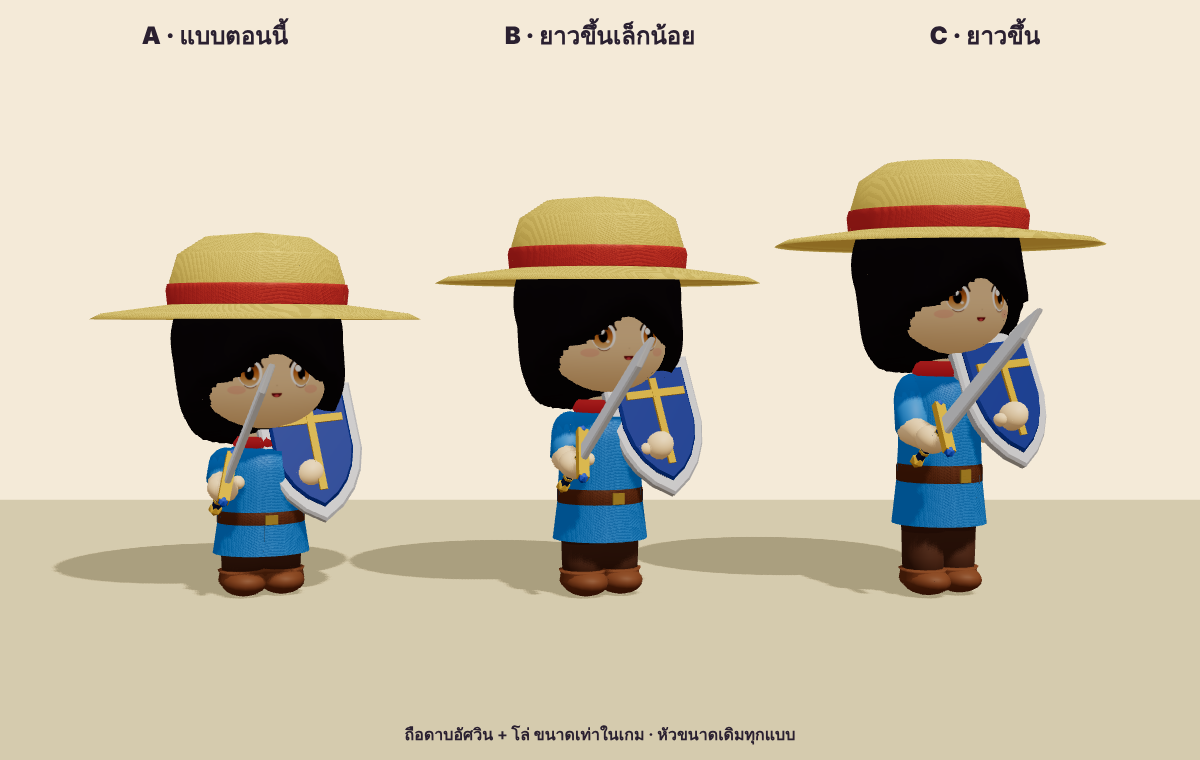
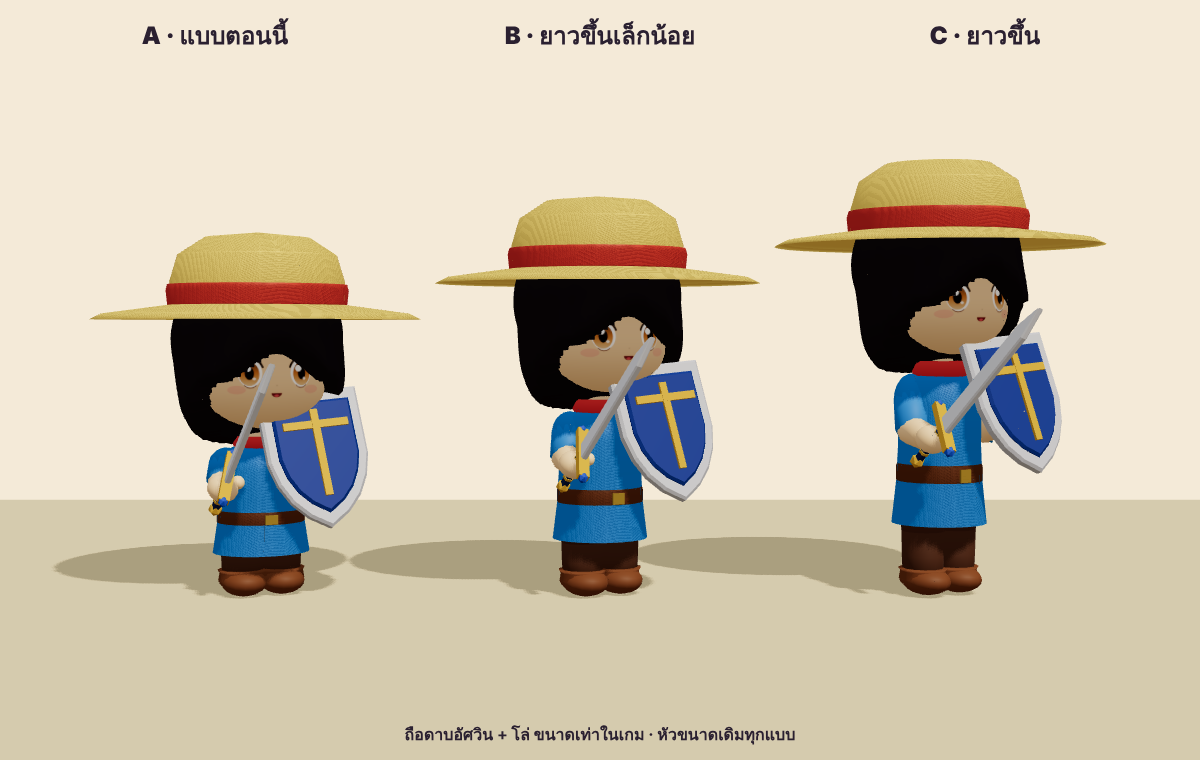
release(newgame): v4.18 shield on the forearm + hand
Claude-Session: https://claude.ai/code/session_01GPWeNez232vT9ersFNk7wt

diff --git a/newgame/src/data.js b/newgame/src/data.js
@@ -1,6 +1,6 @@
 /* New Game — all tunable numbers in one place (docs/SPEC.md). "เสนอ" values: change after play-testing. */
 
-export const APP_VER = '4.17';
+export const APP_VER = '4.18';
 export const LOCK_ON = 6, LOCK_OFF = 8;   // v1.4.2 lock-on: face the nearest angry monster within 6 m · let go beyond 8 m
 export const REACH_SWORD = 2.2, REACH_TOOL = 1.9;   // how close you must be to slash / chop — farther away the character walks over first
 export const CAM_FOLLOW = .45, CAM_DRAG = .0055;   // camera behind the character: max auto-turn (rad/s, ~25°/s) · drag sensitivity (rad per px)                        // bump every release, then run tools/make-version.py (the in-game update bar compares it with version.json)
@@ -608,7 +608,7 @@ export const PLOT_MAX = 400, FARM_GIFT = { carrot: 4, cabbage: 2 }, WILD_SEED = 
 /* ================= v1.2 open world: monster camps (treasure chest when cleared) · wild animals · blueprints ================= */
 export const HORSE = { sp: 6.8, gallop: 11.5, near: 2.4, seat: .95 };   // v3.2 riding speeds · how close to mount · rider height
 export const LAVAD = { sp: 1.8, reach: 3.6, leash: 40, slam: { r: 3, d: 3, wind: 1.2 }, balls: { n: 3, r: 1.8, wind: 1.5 }, erupt: { n: 6, r: 1.6, R: 8, wind: 1.3 }, cd: [2800, 2000] };   // v4.15 🌋 walk · reach · leash · fist slam (radius · in front · warning) · fireballs where you stand (count · radius · warning) · phase-2 eruptions (count · radius · spread · warning) · ms between · every hit burns 🔥
-export const SHIELD_ARM = { pos: [.03, -.03, .05], rot: [Math.PI / 2, 0, -.7], s: 1.35, pose: [-.45, .3, -1.45, -.5], guard: [-1.05, .15, -1.3, -.55] };   // v4.14 🛡 on the forearm (armL2): position · rotation · size · the arm pose [upper arm x, z, elbow x, y] · raised while guarding
+export const SHIELD_ARM = { pos: [0, -.1, .03], rot: [Math.PI / 2, 0, -.7], s: 1.35, pose: [-.45, .3, -1.45, -.5], guard: [-1.05, .15, -1.3, -.55] };   // v4.14 🛡 on the forearm (armL2): position · rotation · size · the arm pose [upper arm x, z, elbow x, y] · raised while guarding
 export const BGIANT = { sp: 2, reach: 3.6, leash: 40, sweep: { r: 3.2, d: 2.6, wind: 1.2 }, thrust: { n: 4, r: 1.4, step: 2.4, wind: 1.3 }, summon: { n: 2, max: 3 }, weak: 1.5, cd: [2700, 1900] };   // v4.13 💀 walk · reach · leash · sword sweep (radius · in front · warning) · thrust line (circles · radius · spacing · warning) · phase-2 skeletons (each time · most at once) · hit while it winds up ×1.5 · ms between
 export const DTREE = { reach: 18, leash: 30, slap: { r: 3, side: 2.6, wind: 1.1 }, roots: { n: 3, r: 1.6, gap: .45, wind: 1.0 }, spores: { r: 5.5, wind: 1.5 }, cd: [2600, 1900] };   // v4.12 🌳 attacks reach · you ran off · branch slap (radius · beside it) · roots under your feet (count · radius · s between · warning) · phase-2 poison spores · ms between
 export const GIANT = { sp: 2.2, reach: 3.4, leash: 40, slam: { r: 2.8, d: 3.2, wind: 1.2 }, breath: { n: 3, r: 1.7, step: 2.2, wind: 1.3 }, ring: { r: 6.5, wind: 1.5 }, cd: [2700, 1900] };   // v4.11 ❄ walk speed · reach · leash from home · slam (radius · in front · warning s) · breath (circles in a line) · phase-2 spike ring · ms between attacks

diff --git a/newgame/tools/art/proportions.html b/newgame/tools/art/proportions.html
@@ -23,7 +23,7 @@ V.forEach(([t, P], i) => { const root = new THREE.Group(), g = new THREE.Group()
   stretch(g, P);
   const hand = g.getObjectByName('handR'), arm2 = g.getObjectByName('armL2');
   if (hand) { const s = new THREE.Group(); WEAPON_MESH.knightSword(s); s.scale.setScalar(1.25 * VBACK.held / VSCALE * 1.45); s.rotation.set(2.2, -Math.PI / 2, 0); s.position.set(0, -.02, .02); hand.add(s) }
-  if (arm2) { const sh = new THREE.Group(); SHIELD_MESH.knightShield(sh); sh.scale.setScalar(1.35 * VBACK.held); sh.rotation.set(Math.PI / 2, 0, -.7); sh.position.set(.03, -.03, .05); arm2.add(sh) }
+  if (arm2) { const sh = new THREE.Group(); SHIELD_MESH.knightShield(sh); sh.scale.setScalar(1.35 * VBACK.held); sh.rotation.set(Math.PI / 2, 0, -.7); sh.position.set(.0, -.1, .03); arm2.add(sh) }
   root.traverse(o => { if (o.isMesh) o.castShadow = true }); root.position.x = (i - 1) * 1.9; root.rotation.y = .45; S.add(root) });
 const cam = new THREE.PerspectiveCamera(26, W / H, .1, 50); cam.position.set(0, 1.5, 9.2); cam.lookAt(0, 1.2, 0); R.render(S, cam);
 const cv = document.createElement('canvas'); cv.width = W; cv.height = H; const x = cv.getContext('2d'); x.drawImage(R.domElement, 0, 0); x.font = '900 24px system-ui'; x.fillStyle = '#2a2030'; x.textAlign = 'center';

diff --git a/newgame/docs/WORKLOG.md b/newgame/docs/WORKLOG.md
@@ -36,6 +36,13 @@
 - ✅ กระท่อมหลังแรก = `cabin` วางเอง (`bCost` ราคา D.BUILD.house · 30 วิ) · `S.home` + `setHome` (HOUSE ตามกระท่อม) · `homeMigrate` เซฟเก่าได้กระท่อม · 🚚 ย้าย (`enterBuild(k, id)` ฟรี) · ขุด/สร้างได้เฉพาะ band 2 · เทสต์ `bald.js`
 - ✅ บท 1–2 ไปเมืองท่า (ทำแล้ว · play.js ผ่านครบ) · เดิม: บท 1–2 ไปเมืองท่า (สไลม์ในเมือง · ดาบ · ป่าก็อบลิน+กรง · ซุ้มฟาง Sberh · สมุนไพร) · ตอนนี้ townSpawn/forestSpawn ยังเกิดบนเกาะที่ TX/FOREST เดิม · แก้เทสต์ play.js/vaneya.js/build.js/walk.js/map.js ตามพิกัดใหม่
 
+### v4.18 — 🛡 โล่ลงมาที่แขนท่อนล่าง + มือ (22 พ.ย. 2026)
+- ผู้ออกแบบ (ภาพเทียบสัดส่วน): โล่ควรติดตรงแขนท่อนล่างกับมือ (เดิมอยู่สูงเกือบข้อศอก)
+- แก้: `D.SHIELD_ARM.pos` [.03,-.03,.05] → [0,-.1,.03] (ลงมาตามแขนท่อนล่าง ทับมือ) · ภาพเทียบสัดส่วน `tools/art/proportions.html` ใช้ค่าเดียวกัน
+- งานภาพที่รอผู้ออกแบบ: สัดส่วนตัวละคร A/B/C (`docs/art/proportions.png` · `arms.png` · `bodyparts.png`) · นาวาลี (`navalee-quests.png`)
+- ทดสอบ: weapons · fight · pose · bow
+- ขึ้นเว็บ: ✅
+
 ### v4.17 — 👖 กางเกงคลุมสะโพก (22 พ.ย. 2026)
 - ผู้ออกแบบ (ภาพ 2): กางเกงสีไม่เต็ม เห็นผิวระหว่างขาหน้า-หลัง · ทุกชุด
 - สาเหตุ: กางเกง/ขาสั้นเป็นแค่ท่อขา 2 ข้าง (`hip` tube) · ช่วงสะโพก/เป้าเป็นลำตัว (`wi` lathe สีผิว)
